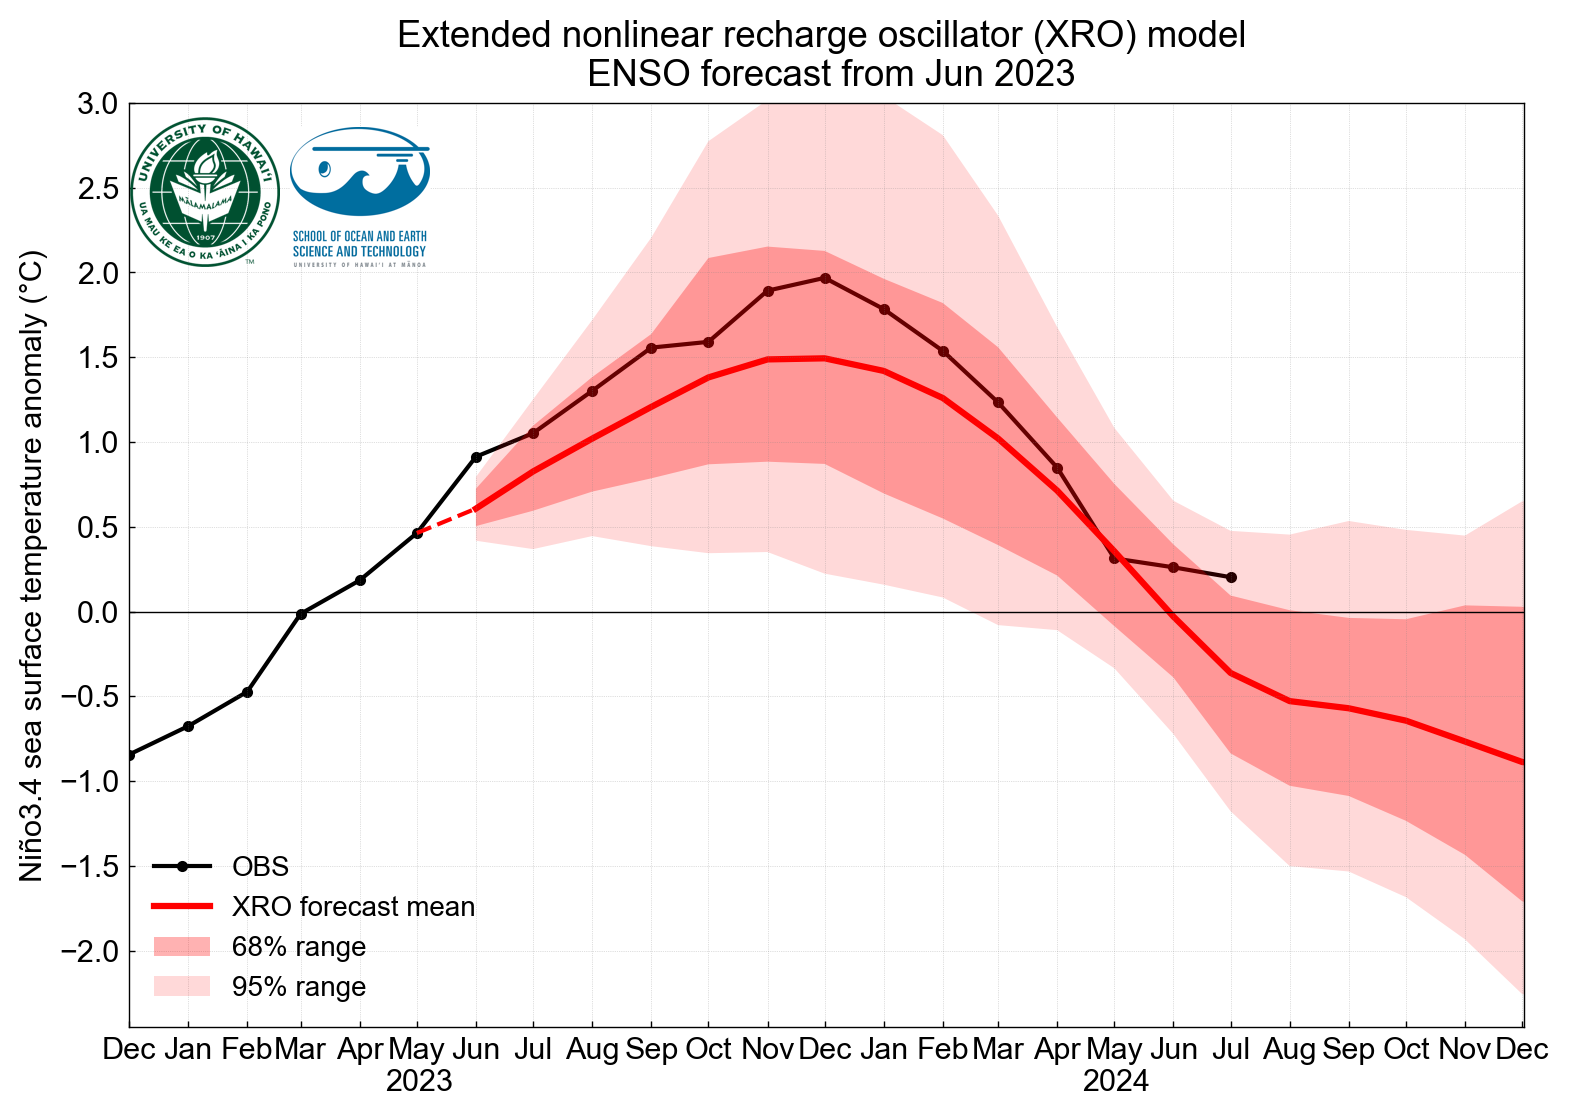
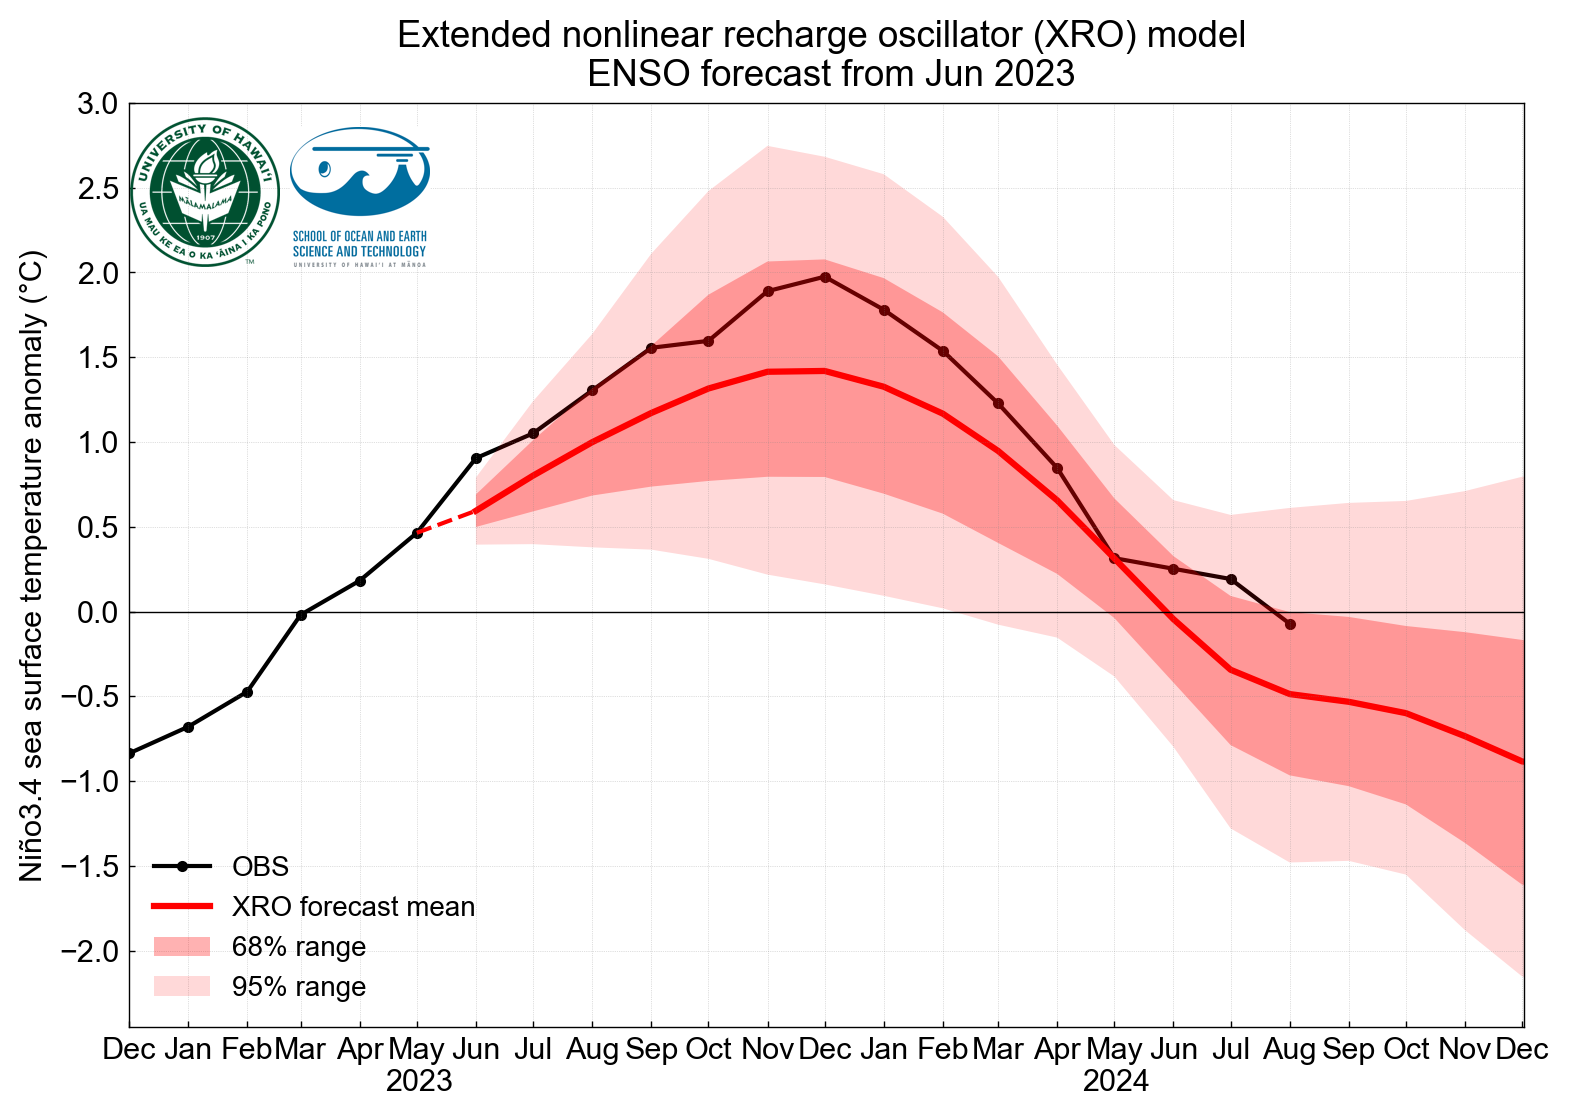
update XRO fcst

diff --git a/content/climate/XRO/_index.md b/content/climate/XRO/_index.md
@@ -208,7 +208,7 @@ Here we make a 18-month forecast with the trained XRO model using the climate mo
 - SST anomaly indices derived from the monthly OISST v2 SST data provided by NOAA, PSL at https://psl.noaa.gov/data/gridded/data.noaa.oisst.v2.highres.html
 - Warm water volume index of equatorial Pacific heat content provided by NOAA, PMEL at https://www.pmel.noaa.gov/elnino/upper-ocean-heat-content-and-enso
 
-We conduct 100-member stochastic forecasts with the same initial conditions for each month but different stochastic forcings, See Supplementary Fig. 16 in [Zhao et al. (2024)](#ref-zhao-2024) for how we make 100-member stochastic forecasts in details.
+We conduct 1000-member stochastic forecasts with the same initial conditions for each month but different stochastic forcings, See Supplementary Fig. 16 in [Zhao et al. (2024)](#ref-zhao-2024) for how we make 1000-member stochastic forecasts in details.
 
 
 ### References
